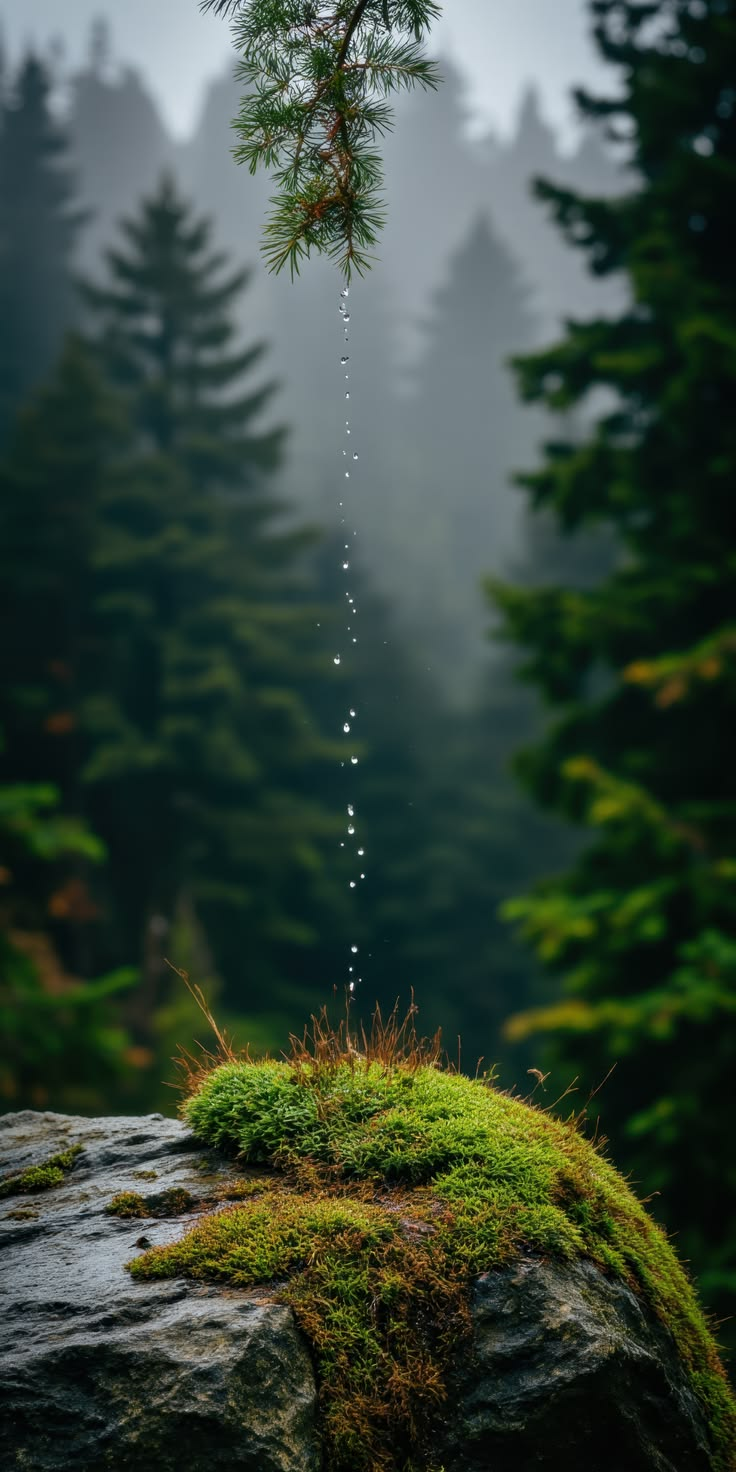
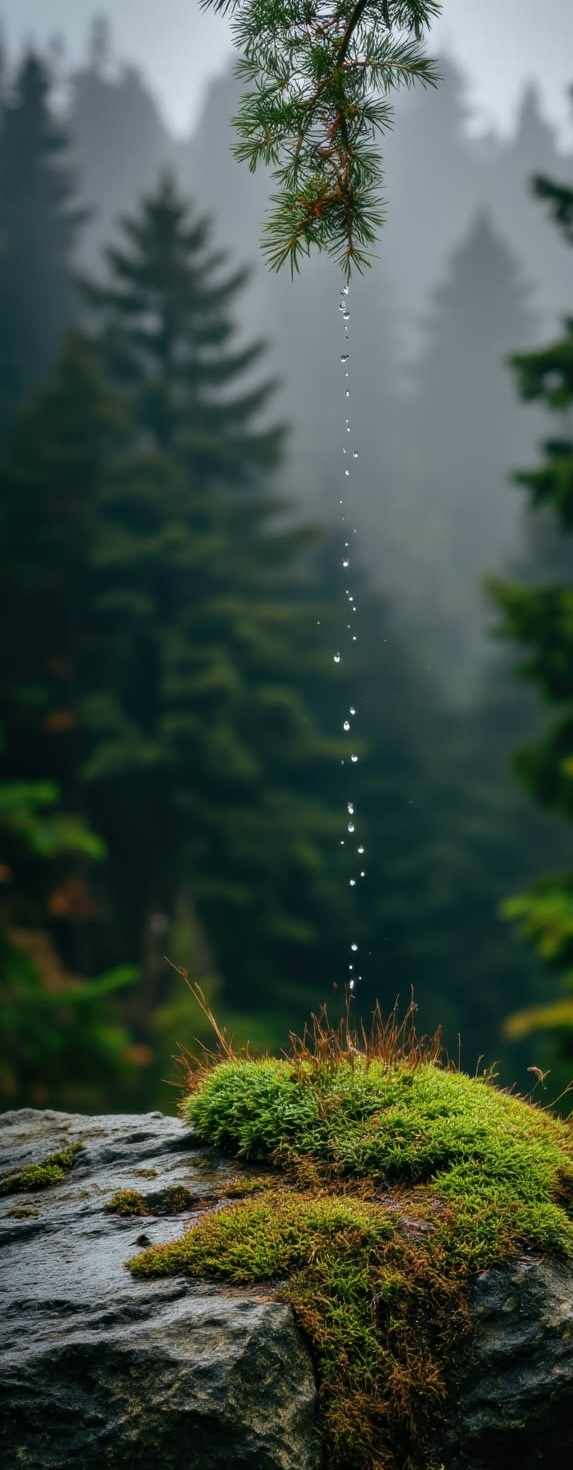
Add site header to auth pages, update login background photo, fix account page for profiles without extra data
- base_auth.html now includes the standard site header on full-bleed auth pages
- Updated auth-hero background photo (foggy forest, water droplets)
- Account page hides ФИО/Телефон rows when profile data is missing (e.g. pre-existing staff accounts) instead of showing empty fields

diff --git a/website/templates/website/account_page.html b/website/templates/website/account_page.html
@@ -22,14 +22,18 @@
           <dt>Email</dt>
           <dd>{{ user.email }}</dd>
         </div>
+        {% if user.last_name or user.first_name %}
         <div class="account-profile__row">
           <dt>ФИО</dt>
           <dd>{{ user.last_name }} {{ user.first_name }} {{ user.profile.patronymic }}</dd>
         </div>
+        {% endif %}
+        {% if user.profile.phone %}
         <div class="account-profile__row">
           <dt>Телефон</dt>
           <dd>{{ user.profile.phone }}</dd>
         </div>
+        {% endif %}
       </dl>
       <a href="/account/logout/" class="btn btn--outline">Выйти</a>
     </div>

diff --git a/static/css/style.css b/static/css/style.css
@@ -2752,7 +2752,7 @@ body:not(.home-page) .header__burger span {
   flex-direction: column;
   justify-content: space-between;
   gap: var(--space-lg);
-  padding: var(--space-lg) var(--space-md);
+  padding: calc(var(--header-h) + var(--space-md)) var(--space-md) var(--space-lg);
 }
 
 .auth-visual__top {
@@ -2834,7 +2834,7 @@ body:not(.home-page) .header__burger span {
   display: flex;
   align-items: center;
   justify-content: center;
-  padding: var(--space-xl) var(--space-md);
+  padding: calc(var(--header-h) + var(--space-xl)) var(--space-md) var(--space-xl);
   background-color: var(--color-ivory);
 }
 

diff --git a/templates/base_auth.html b/templates/base_auth.html
@@ -19,6 +19,8 @@
 </head>
 <body class="{% block body_class %}{% endblock %}">
 
+  {% include "includes/header.html" %}
+
   {% block content %}{% endblock %}
 
   <script src="{% static 'js/main.js' %}" defer></script>
